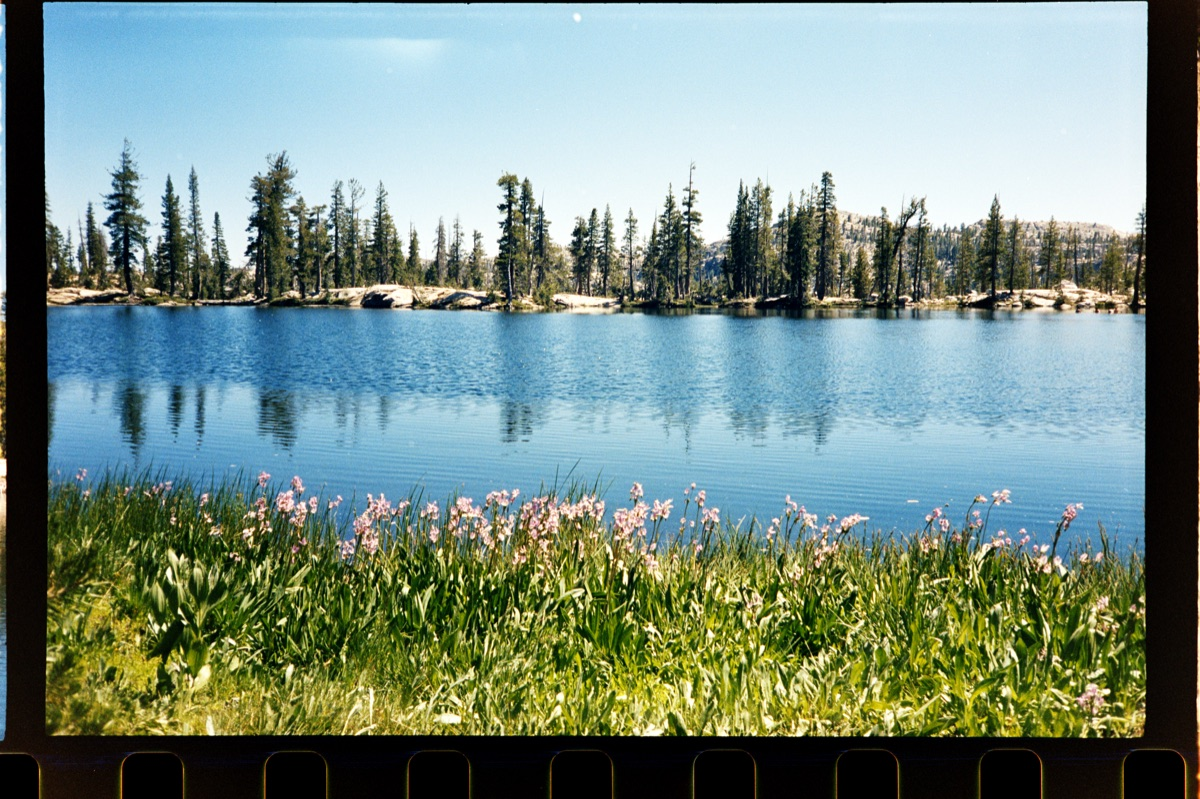
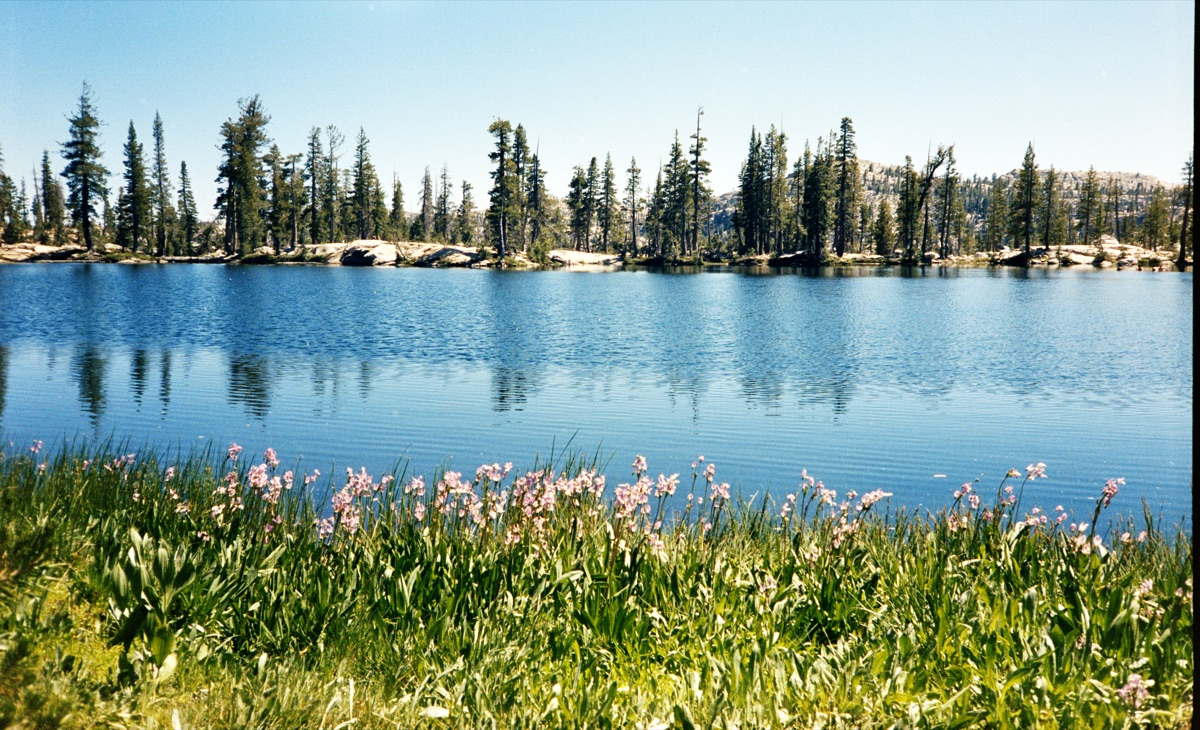
Toast off-screen at rest + trim film borders from sample positive
Toast:
- translateY(120%) wasn't enough — with bottom:24px positioning the
  element was already offset UP, so 120% of its own height still left
  the top edge peeking above the viewport (~16px visible).
- Now uses translateY(calc(100% + 48px)) so it's genuinely off-screen.
- pointer-events: none in hidden state so it doesn't block the row
  above it either.

Sample positive:
- decode_native now also emits output_positive_cropped.png with a
  4%/8% inset that trims the film rebate and sprocket holes.
- Regenerated public/samples/sample-positive.jpg from the cropped
  source — just the scene, no film border showing.

diff --git a/index.html b/index.html
@@ -319,15 +319,21 @@
         letter-spacing: 0.2em; margin-top: 14px; text-transform: uppercase; }
 
       /* ── error toast ─────────────────────────────────────────────── */
+      /* Hidden state uses translateY of 100% + the `bottom` offset + a
+         safety margin so the toast is fully OFF-screen at rest — a naive
+         translateY(120%) would leave the top edge peeking above the
+         viewport since `bottom: 24px` already offsets it upward. */
       .toast { position: fixed; bottom: 24px; left: 50%; z-index: 200;
-        transform: translateX(-50%) translateY(120%);
+        transform: translateX(-50%) translateY(calc(100% + 48px));
         min-width: 280px; max-width: 90vw; padding: 12px 16px;
         background: var(--bg-elev); border: 1px solid var(--red);
         color: var(--text); font-size: 12px; letter-spacing: 0.05em;
         box-shadow: 0 8px 32px rgba(var(--black-rgb), 0.5);
         transition: transform 0.25s cubic-bezier(0.16, 1, 0.3, 1);
-        display: flex; align-items: flex-start; gap: 12px; }
-      .toast.show { transform: translateX(-50%) translateY(0); }
+        display: flex; align-items: flex-start; gap: 12px;
+        pointer-events: none; }
+      .toast.show { transform: translateX(-50%) translateY(0);
+        pointer-events: auto; }
       .toast .toast-icon { color: var(--red); font-weight: 700;
         font-size: 14px; flex-shrink: 0; }
       .toast .toast-body { flex: 1; word-break: break-word; }

diff --git a/decoder/src/bin/decode_native.rs b/decoder/src/bin/decode_native.rs
@@ -40,6 +40,23 @@ fn main() {
     image::save_buffer(out, &u8_pixels, raw.width, raw.height, image::ColorType::Rgb8)
         .expect("failed to write PNG");
     println!("Saved → {out}  (positive)");
+
+    // Also emit a cropped version (film borders trimmed) for use as web-scale
+    // sample imagery. Rough symmetric inset; not smart, just proportional.
+    let inset_x = (raw.width  as f32 * 0.04) as u32;
+    let inset_y = (raw.height as f32 * 0.08) as u32;
+    let cw = raw.width  - inset_x * 2;
+    let ch = raw.height - inset_y * 2;
+    let stride = (raw.width as usize) * 3;
+    let mut cropped = Vec::with_capacity((cw * ch * 3) as usize);
+    for y in inset_y..(raw.height - inset_y) {
+        let row = (y as usize) * stride + (inset_x as usize) * 3;
+        cropped.extend_from_slice(&u8_pixels[row .. row + (cw as usize) * 3]);
+    }
+    let out_c = "output_positive_cropped.png";
+    image::save_buffer(out_c, &cropped, cw, ch, image::ColorType::Rgb8)
+        .expect("failed to write cropped PNG");
+    println!("Saved → {out_c}  ({}×{}, borders trimmed)", cw, ch);
 }
 
 /// sRGB gamma-encode a linear [0,1] value for display.
